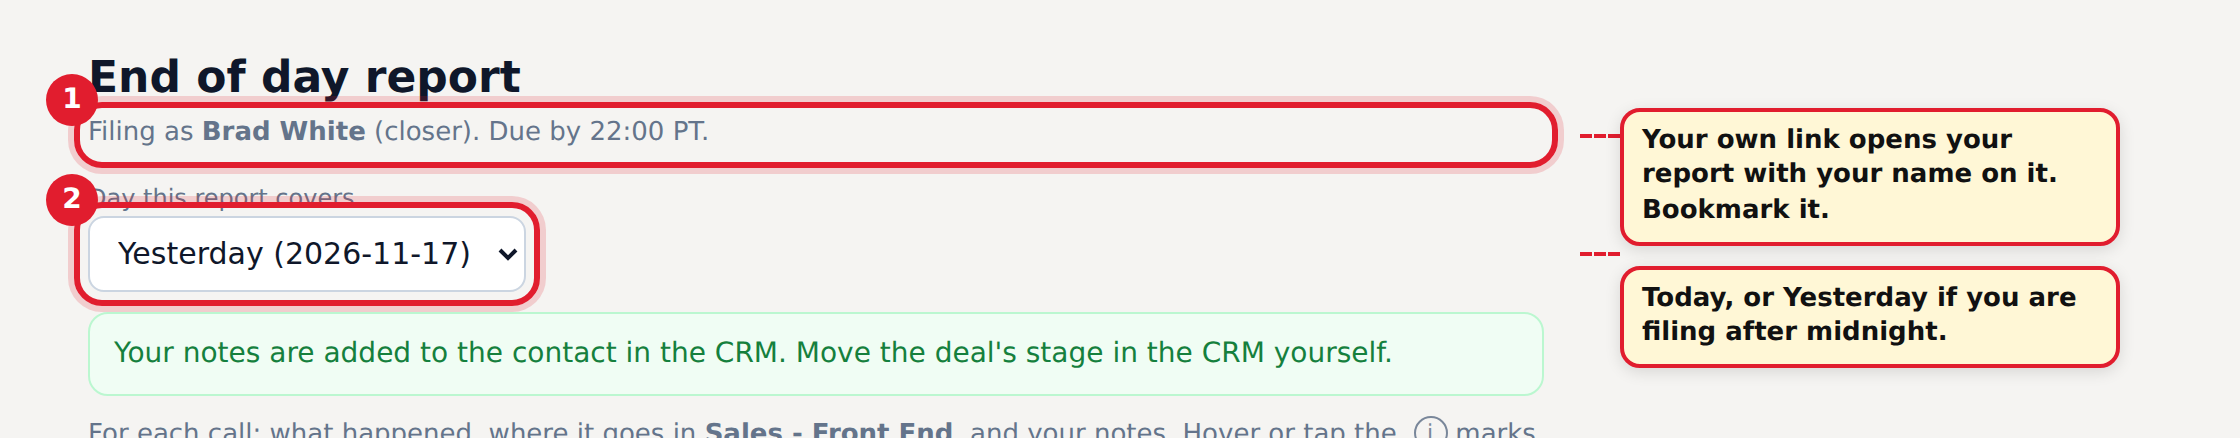
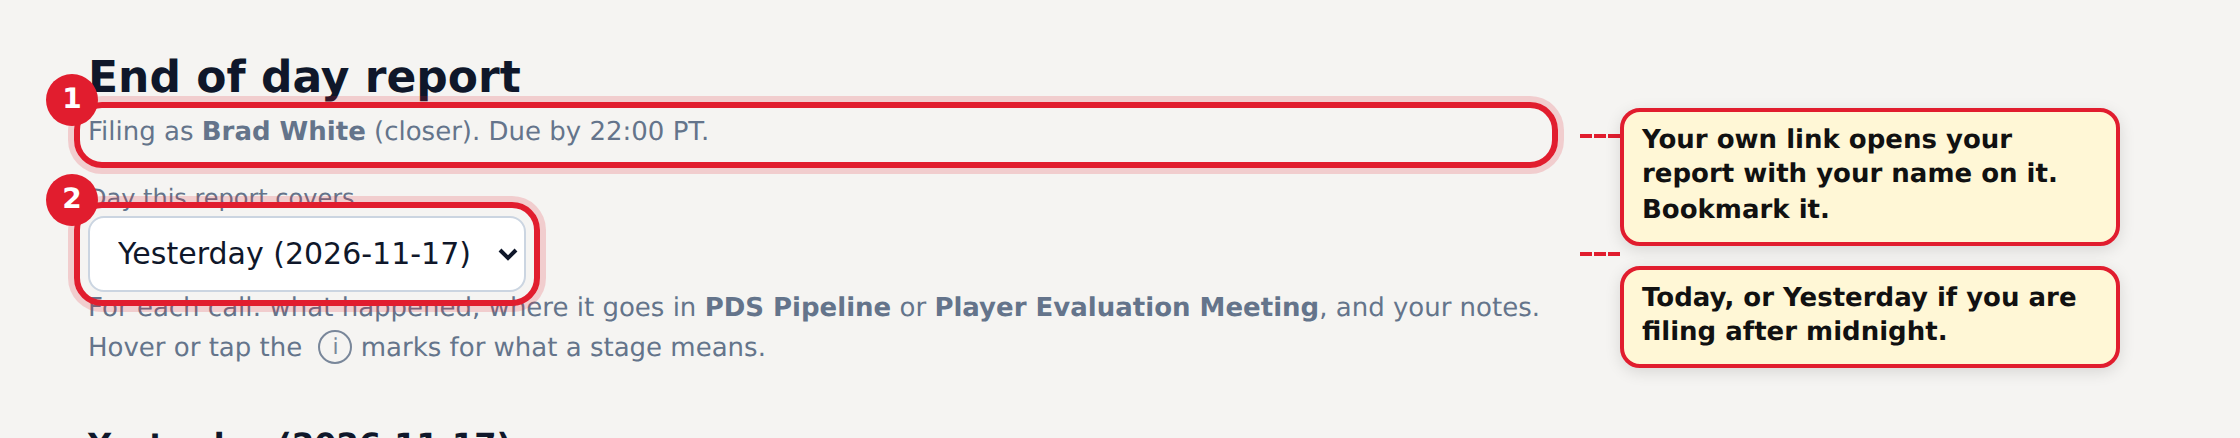
fix: guides — the report updates the CRM (stage, notes, tag, cash); ACTA's own stage names in the screens

diff --git a/eod/closers/index.html b/eod/closers/index.html
@@ -93,8 +93,8 @@
   <p class="eyebrow">ACTA Academy · Garrett, Brad, Graham</p>
   <h1>End-of-day report: closers</h1>
   <p class="lede">How to file your end-of-day report: every call on your calendar, what happened, and any money in. About five minutes a day.</p>
-  <section class="step"><h3><span class="n">1</span>Open your report</h3><p>Open the private link Tommy sent you and bookmark it. It opens your own report with your name on it. File it every day you had calls, by <b>10pm Pacific</b>. If you are filing after midnight, pick <b>Yesterday</b>.</p><img class="shot" src="../img/closer-1-open.png" alt="Open your report" loading="lazy"></section><section class="step"><h3><span class="n">2</span>Go through each call</h3><p>Every call on your calendar for the day is listed. For each one:</p><ul><li><b>What happened</b>: No-show, Cancelled, Rescheduled or Showed.</li><li><b>Pipeline stage</b>: where it goes now.</li><li><b>Offer made?</b> Yes or No.</li><li><b>Notes</b>: always required.</li></ul><p>The top right of each call shows who booked it. If Jules confirmed or qualified it, that shows there too.</p><img class="shot" src="../img/closer-2-showed.png" alt="Go through each call" loading="lazy"></section><section class="step"><h3><span class="n">3</span>A close</h3><p>Pick <b>Deal Won</b> (or <b>Deposit Collected</b>), then the product, the <b>cash collected today</b>, the <b>full deal value</b> and who set it (<b>No setter</b> if nobody did).</p><img class="shot" src="../img/closer-3-close.png" alt="A close" loading="lazy"></section><section class="step"><h3><span class="n">4</span>No-show, cancelled or rescheduled</h3><p>One click, then a note on what you tried. For a reschedule, move it on the calendar as normal; the new time is picked up from the calendar.</p><img class="shot" src="../img/closer-4-noshow.png" alt="No-show, cancelled or rescheduled" loading="lazy"></section><section class="step"><h3><span class="n">5</span>Money from someone not on your calls today</h3><p>An instalment on an earlier deal, or a close that happened after the call: press <b>Add cash entry</b>, find the person, check the product and which payment it is, enter the amount and what it is for, then <b>Add to this report</b>. Only fill in revenue for a new sale; a later instalment has none.</p><img class="shot" src="../img/closer-5-cash.png" alt="Money from someone not on your calls today" loading="lazy"></section><section class="step"><h3><span class="n">6</span>Submit</h3><p>When every call is done the button turns blue. You can open the report again and change it later; it keeps a history of changes.</p><img class="shot" src="../img/closer-6-submit.png" alt="Submit" loading="lazy"></section>
-  <div class="note"><p>Screens show sample prospects. Your notes are added to each contact in the CRM automatically. Move the deal&#39;s stage in the CRM yourself.</p></div>
+  <section class="step"><h3><span class="n">1</span>Open your report</h3><p>Open the private link Tommy sent you and bookmark it. It opens your own report with your name on it. File it every day you had calls, by <b>10pm Pacific</b>. If you are filing after midnight, pick <b>Yesterday</b>.</p><img class="shot" src="../img/closer-1-open.png" alt="Open your report" loading="lazy"></section><section class="step"><h3><span class="n">2</span>Go through each call</h3><p>Every call on your calendar for the day is listed. For each one:</p><ul><li><b>What happened</b>: No-show, Cancelled, Rescheduled or Showed.</li><li><b>Pipeline stage</b>: where the deal goes now. The choices are the real stages of that call&#39;s pipeline (PDS or Player Evaluation Meeting). On a PDS, <b>Qualified - Player Evaluation Booked</b> is picked for you when the PEM is in the calendar.</li><li><b>Offer made?</b> Yes or No.</li><li><b>Notes</b>: always required.</li></ul><p>The top right of each call shows who booked it. If Jules confirmed or qualified it, that shows there too.</p><img class="shot" src="../img/closer-2-showed.png" alt="Go through each call" loading="lazy"></section><section class="step"><h3><span class="n">3</span>A close</h3><p>Pick <b>Won</b> (or <b>Deposit</b>), then the product, the <b>cash collected today</b>, the <b>full deal value</b> and who set it (<b>No setter</b> if nobody did).</p><img class="shot" src="../img/closer-3-close.png" alt="A close" loading="lazy"></section><section class="step"><h3><span class="n">4</span>No-show, cancelled or rescheduled</h3><p>One click, then a note on what you tried. For a reschedule, move it on the calendar as normal; the deal moves to Rescheduled and the new time is picked up from the calendar.</p><img class="shot" src="../img/closer-4-noshow.png" alt="No-show, cancelled or rescheduled" loading="lazy"></section><section class="step"><h3><span class="n">5</span>Money from someone not on your calls today</h3><p>An instalment on an earlier deal, or a close that happened after the call: press <b>Add cash entry</b>, find the person, check the product and which payment it is, enter the amount and what it is for, then <b>Add to this report</b>. Only fill in revenue for a new sale; a later instalment has none.</p><img class="shot" src="../img/closer-5-cash.png" alt="Money from someone not on your calls today" loading="lazy"></section><section class="step"><h3><span class="n">6</span>Submit</h3><p>When every call is done the button turns blue. You can open the report again and change it later; it keeps a history of changes.</p><img class="shot" src="../img/closer-6-submit.png" alt="Submit" loading="lazy"></section>
+  <div class="note"><p>Screens show sample prospects. Everything you submit updates the CRM for you: the deal&#39;s stage, your notes, the product tag and the cash. You don&#39;t need to update the CRM yourself.</p></div>
 </main>
 </body>
 </html>

diff --git a/eod/setters/index.html b/eod/setters/index.html
@@ -94,7 +94,7 @@
   <h1>End-of-day report: setters</h1>
   <p class="lede">How to file your end-of-day report: your dials and bookings fill in by themselves; you add the calls you confirmed, qualified or rescheduled.</p>
   <section class="step"><h3><span class="n">1</span>Open your report</h3><p>Open the private link Tommy sent you and bookmark it. File it every working day by <b>10pm Pacific</b>. Your Salesfinity dials, connects and talk time fill in by themselves.</p><img class="shot" src="../img/setter-1-auto.png" alt="Open your report" loading="lazy"></section><section class="step"><h3><span class="n">2</span>Calls you booked: automatic</h3><p>Every call you book yourself on the <b>ACTA Player Development Session - Dialler</b> calendar is counted as yours. Nothing to fill in. Always book on that calendar, from your own login, so the call is credited to you.</p><img class="shot" src="../img/setter-2-booked.png" alt="Calls you booked: automatic" loading="lazy"></section><section class="step"><h3><span class="n">3</span>Calls you confirmed, qualified or rescheduled</h3><p>For calls already on a closer&#39;s calendar that someone else booked:</p><ul><li>Find the person by name, email or phone, or paste their CRM link.</li><li>Pick the call.</li><li>Tick everything you did: <b>Confirmed it</b>, <b>Qualified them</b>, <b>Rescheduled it</b>.</li><li>Write what you found out or agreed, then <b>Add to my report</b>.</li></ul><p>Repeat for each person. These count towards your commission, so add every one. For a reschedule, move the call in the CRM first, then pick it at its new time.</p><img class="shot" src="../img/setter-3-add.png" alt="Calls you confirmed, qualified or rescheduled" loading="lazy"></section><section class="step"><h3><span class="n">4</span>Check and submit</h3><p>Everything you added is listed. Remove anything that is wrong, then submit. You can open the report again and change it later.</p><img class="shot" src="../img/setter-4-submit.png" alt="Check and submit" loading="lazy"></section>
-  <div class="note"><p>Screens show sample prospects. Your notes are added to each contact in the CRM automatically. Move the deal&#39;s stage in the CRM yourself.</p></div>
+  <div class="note"><p>Screens show sample prospects. Everything you submit updates the CRM for you: the deal&#39;s stage, your notes, the product tag and the cash. You don&#39;t need to update the CRM yourself.</p></div>
 </main>
 </body>
 </html>
